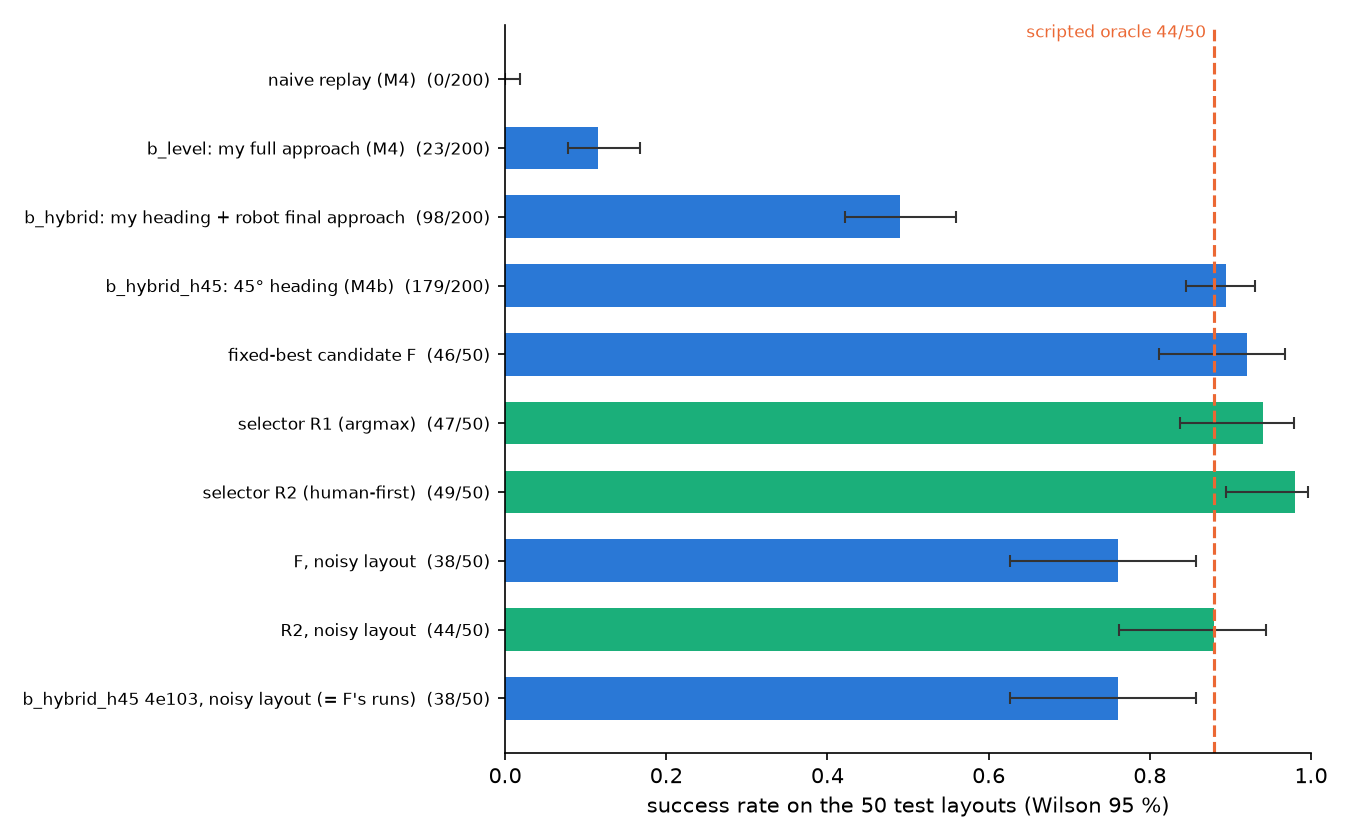
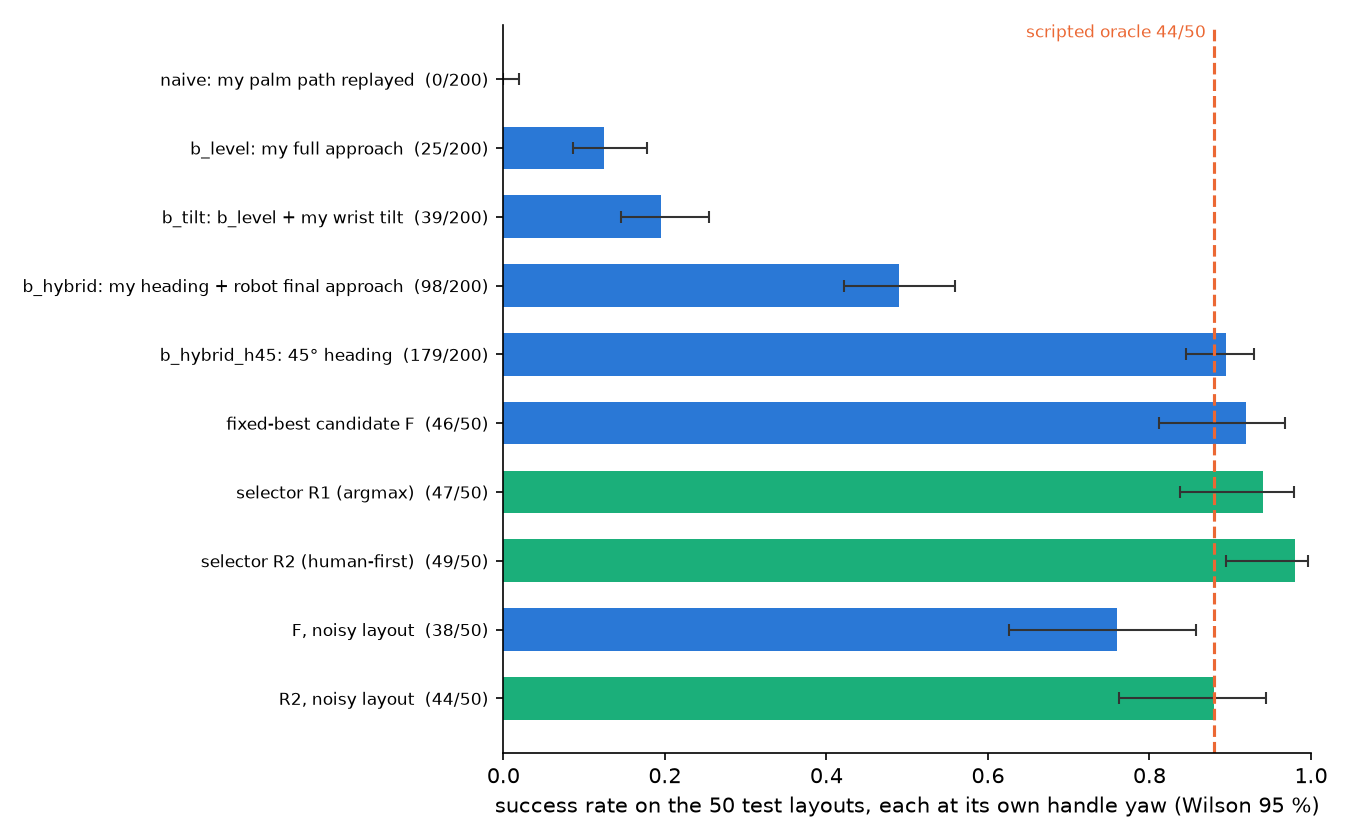
Polish Step 2: ablation.png as one own-yaw bar set (naive, b_level, b_tilt from the own-yaw re-run; b_hybrid 98/200; b_hybrid_h45; F, R1, R2; F and R2 noisy), duplicate h45-noisy bar removed; heading.png regenerated byte-identical

diff --git a/retarget/final_figures.py b/retarget/final_figures.py
@@ -1,8 +1,10 @@
 """M6 figures for the README, drawn only from saved summaries (nothing simulated here).
 
-  results/final/ablation.png  the M5 ablation table (results/m5/summary.json "ablation"): success rate per variant with its Wilson 95 %
-                              interval, the oracle as a reference line. N is in each label (the 4-clip pools are /200 and reuse the same
-                              50 layouts, so their intervals are too narrow; summary.md says so).
+  results/final/ablation.png  one consistent set of bars, every run at each test layout's own handle yaw: naive, b_level, b_tilt
+                              (results/final/own_yaw/summary.json, the polish re-run), b_hybrid at the original yaw, b_hybrid_h45, F, R1,
+                              R2, F noisy, R2 noisy (results/m5/summary.json "ablation"): success rate with its Wilson 95 % interval, the
+                              oracle as a dashed reference line. N is in each label (the 4-clip pools are /200 and reuse the same 50
+                              layouts, so their intervals are too narrow). M4's turned-handle naive / b_level / b_tilt rows are not drawn.
   results/final/heading.png   M4b's heading sweep (results/m4b/summary.json "heading_sweep": the oracle with its grasp turned to phi,
                               20 layouts each) plus R2's choices on the test layouts (results/m5/choices.json + the eval rows): one marker
                               per (clip, chosen phi) at that choice's success rate, its size = how often R2 chose it.
@@ -27,17 +29,19 @@ from retarget.m4_summary import AQUA, BLUE, ORANGE
 OUT = Path("results/final")
 M5 = Path("results/m5")
 VIEW = {"26d4118b0c": "top-down", "4e103843db": "90°", "49aff04f7a": "45° (a)", "e8825dea53": "45° (b)"}
-ORDER = ("naive_M4", "b_level_M4", "b_hybrid_original_yaw", "b_hybrid_h45_M4b", "F_clean", "R1_clean", "R2_clean", "F_noisy", "R2_noisy")
-NAMES = dict(naive_M4="naive replay (M4)", b_level_M4="b_level: my full approach (M4)", b_hybrid_original_yaw="b_hybrid: my heading + robot final approach",
-             b_hybrid_h45_M4b="b_hybrid_h45: 45° heading (M4b)", F_clean="fixed-best candidate F", R1_clean="selector R1 (argmax)",
-             R2_clean="selector R2 (human-first)", F_noisy="F, noisy layout", R2_noisy="R2, noisy layout")
+OWN_YAW = Path("results/final/own_yaw/summary.json")
+ORDER = ("naive", "b_level", "b_tilt", "b_hybrid_original_yaw", "b_hybrid_h45_M4b", "F_clean", "R1_clean", "R2_clean", "F_noisy", "R2_noisy")
+NAMES = dict(naive="naive: my palm path replayed", b_level="b_level: my full approach", b_tilt="b_tilt: b_level + my wrist tilt",
+             b_hybrid_original_yaw="b_hybrid: my heading + robot final approach", b_hybrid_h45_M4b="b_hybrid_h45: 45° heading",
+             F_clean="fixed-best candidate F", R1_clean="selector R1 (argmax)", R2_clean="selector R2 (human-first)",
+             F_noisy="F, noisy layout", R2_noisy="R2, noisy layout")
 
 
-def ablation(s: dict, path: Path):
-    abl = s["ablation"]
-    keys = [k for k in ORDER if k in abl] + [k for k in abl if k.startswith("b_hybrid_h45_") and k.endswith("_noisy")]
-    h45 = lambda k: f"b_hybrid_h45 {k.split('_')[3][:5]}, noisy layout" + (" (= F's runs)" if k.split("_")[3] == s["F"]["clip"] and s["F"]["candidate"] == "45" else "")
-    names = [NAMES[k] if k in NAMES else h45(k) for k in keys]
+def ablation(s: dict, own: dict, path: Path):
+    """s = results/m5/summary.json, own = results/final/own_yaw/summary.json (its 4-clip pools)."""
+    abl = dict(s["ablation"], **{v: own["own_yaw"][v]["pool"] for v in ("naive", "b_level", "b_tilt")})
+    keys = list(ORDER)
+    names = [NAMES[k] for k in keys]
     rate = np.array([abl[k]["successes"] / abl[k]["n"] for k in keys])
     lo = np.array([abl[k]["wilson95"][0] for k in keys])
     hi = np.array([abl[k]["wilson95"][1] for k in keys])
@@ -50,7 +54,7 @@ def ablation(s: dict, path: Path):
     o = abl["oracle"]
     ax.axvline(o["successes"] / o["n"], color=ORANGE, ls="--", lw=1.5)
     ax.text(o["successes"] / o["n"] - 0.01, len(keys) - 0.45, f"scripted oracle {o['successes']}/{o['n']}", color=ORANGE, fontsize=8, va="bottom", ha="right")
-    ax.set(yticks=y, yticklabels=labels, xlim=(0, 1.0), xlabel="success rate on the 50 test layouts (Wilson 95 %)")
+    ax.set(yticks=y, yticklabels=labels, xlim=(0, 1.0), xlabel="success rate on the 50 test layouts, each at its own handle yaw (Wilson 95 %)")
     ax.tick_params(axis="y", labelsize=8)
     ax.spines[["top", "right"]].set_visible(False)
     fig.tight_layout()
@@ -91,9 +95,9 @@ def heading(path: Path):
 def main():
     OUT.mkdir(parents=True, exist_ok=True)
     s = json.loads((M5 / "summary.json").read_text())
-    ablation(s, OUT / "ablation.png")
+    ablation(s, json.loads(OWN_YAW.read_text()), OUT / "ablation.png")
     r2 = heading(OUT / "heading.png")
-    (OUT / "figures.json").write_text(json.dumps(dict(what="retarget/final_figures.py", sources=["results/m5/summary.json", "results/m4b/summary.json",
+    (OUT / "figures.json").write_text(json.dumps(dict(what="retarget/final_figures.py", sources=[str(OWN_YAW), "results/m5/summary.json", "results/m4b/summary.json",
                                                                                              "results/m5/choices.json", "results/m5/eval/runs"],
                                                       figures=["ablation.png", "heading.png"], r2_choices_plotted=r2), indent=2))
     print(f"wrote {OUT / 'ablation.png'}, {OUT / 'heading.png'}")
